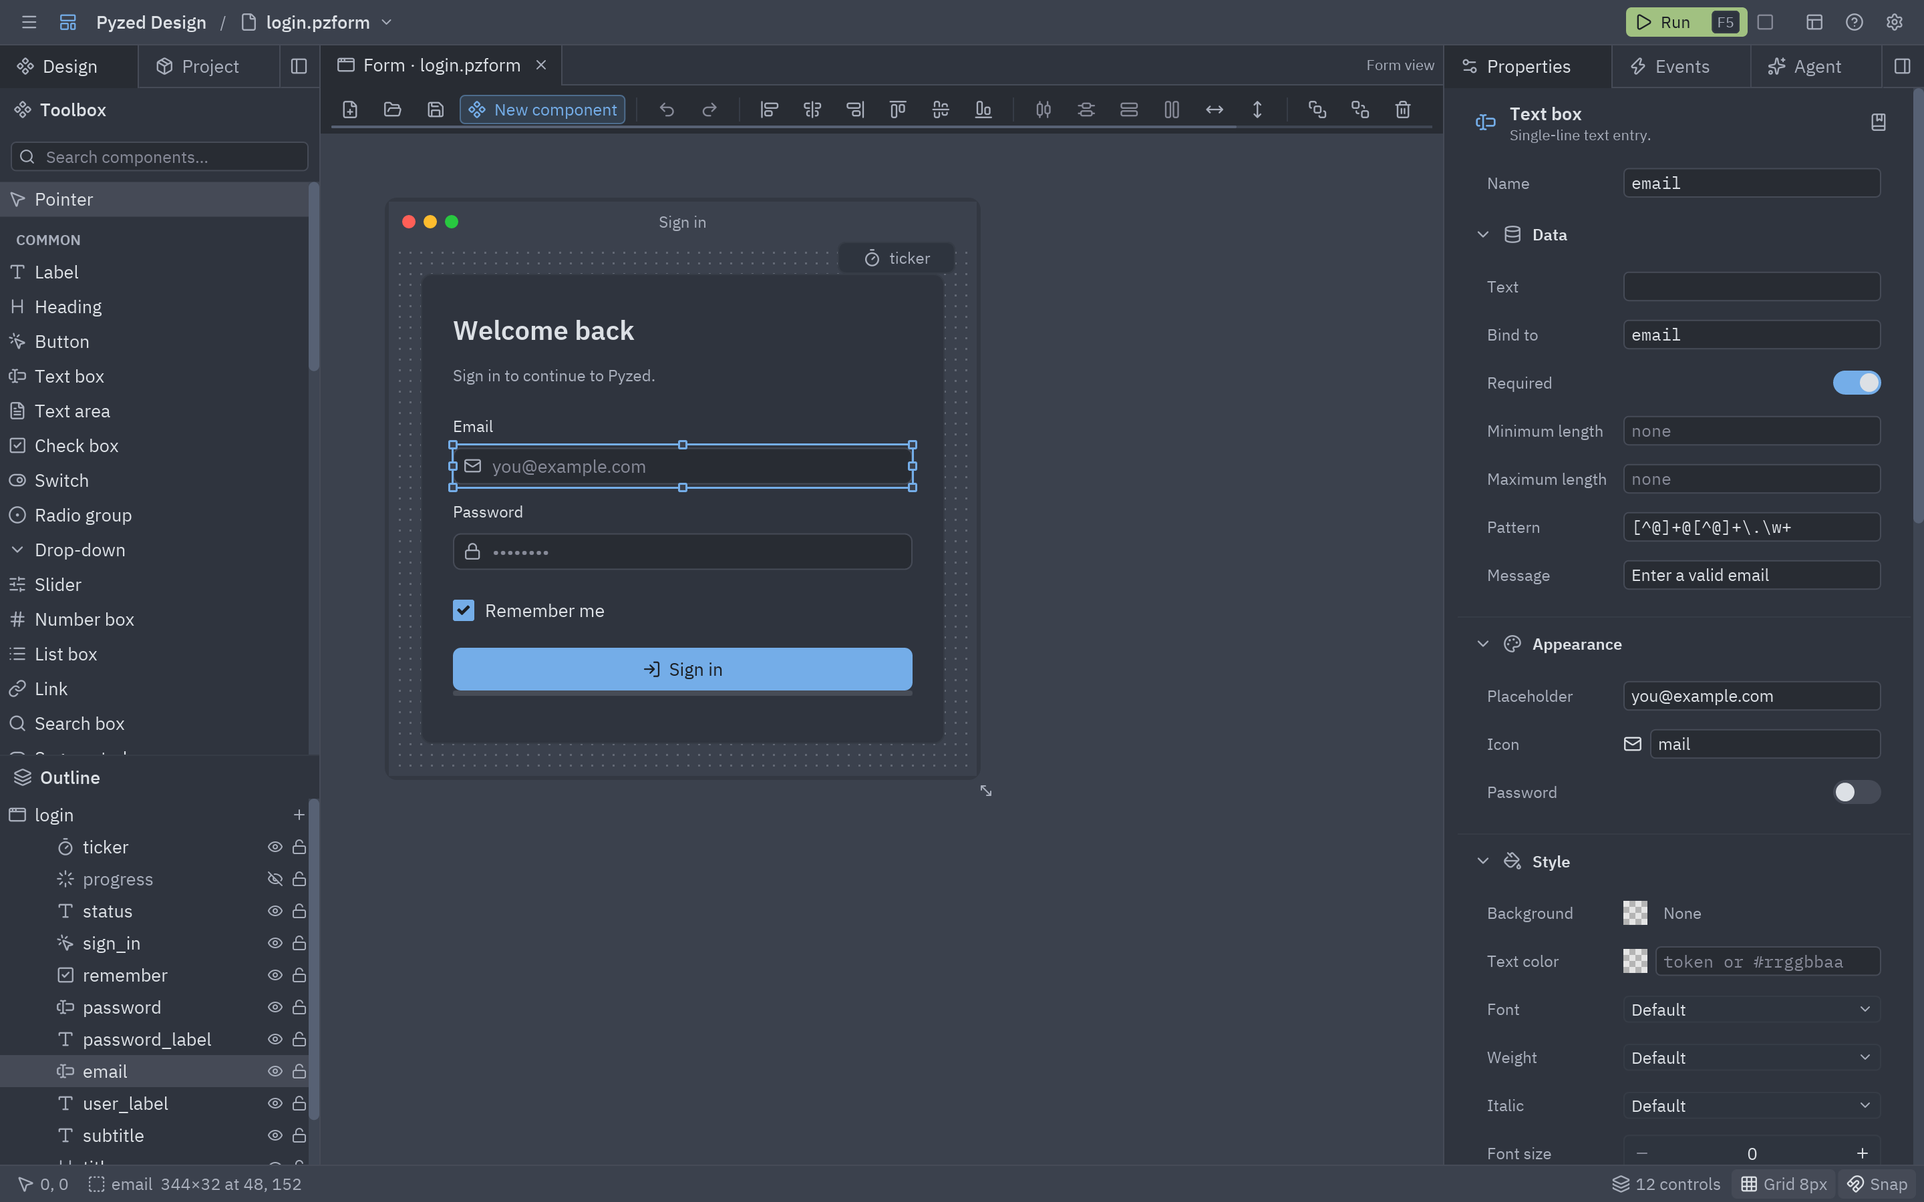
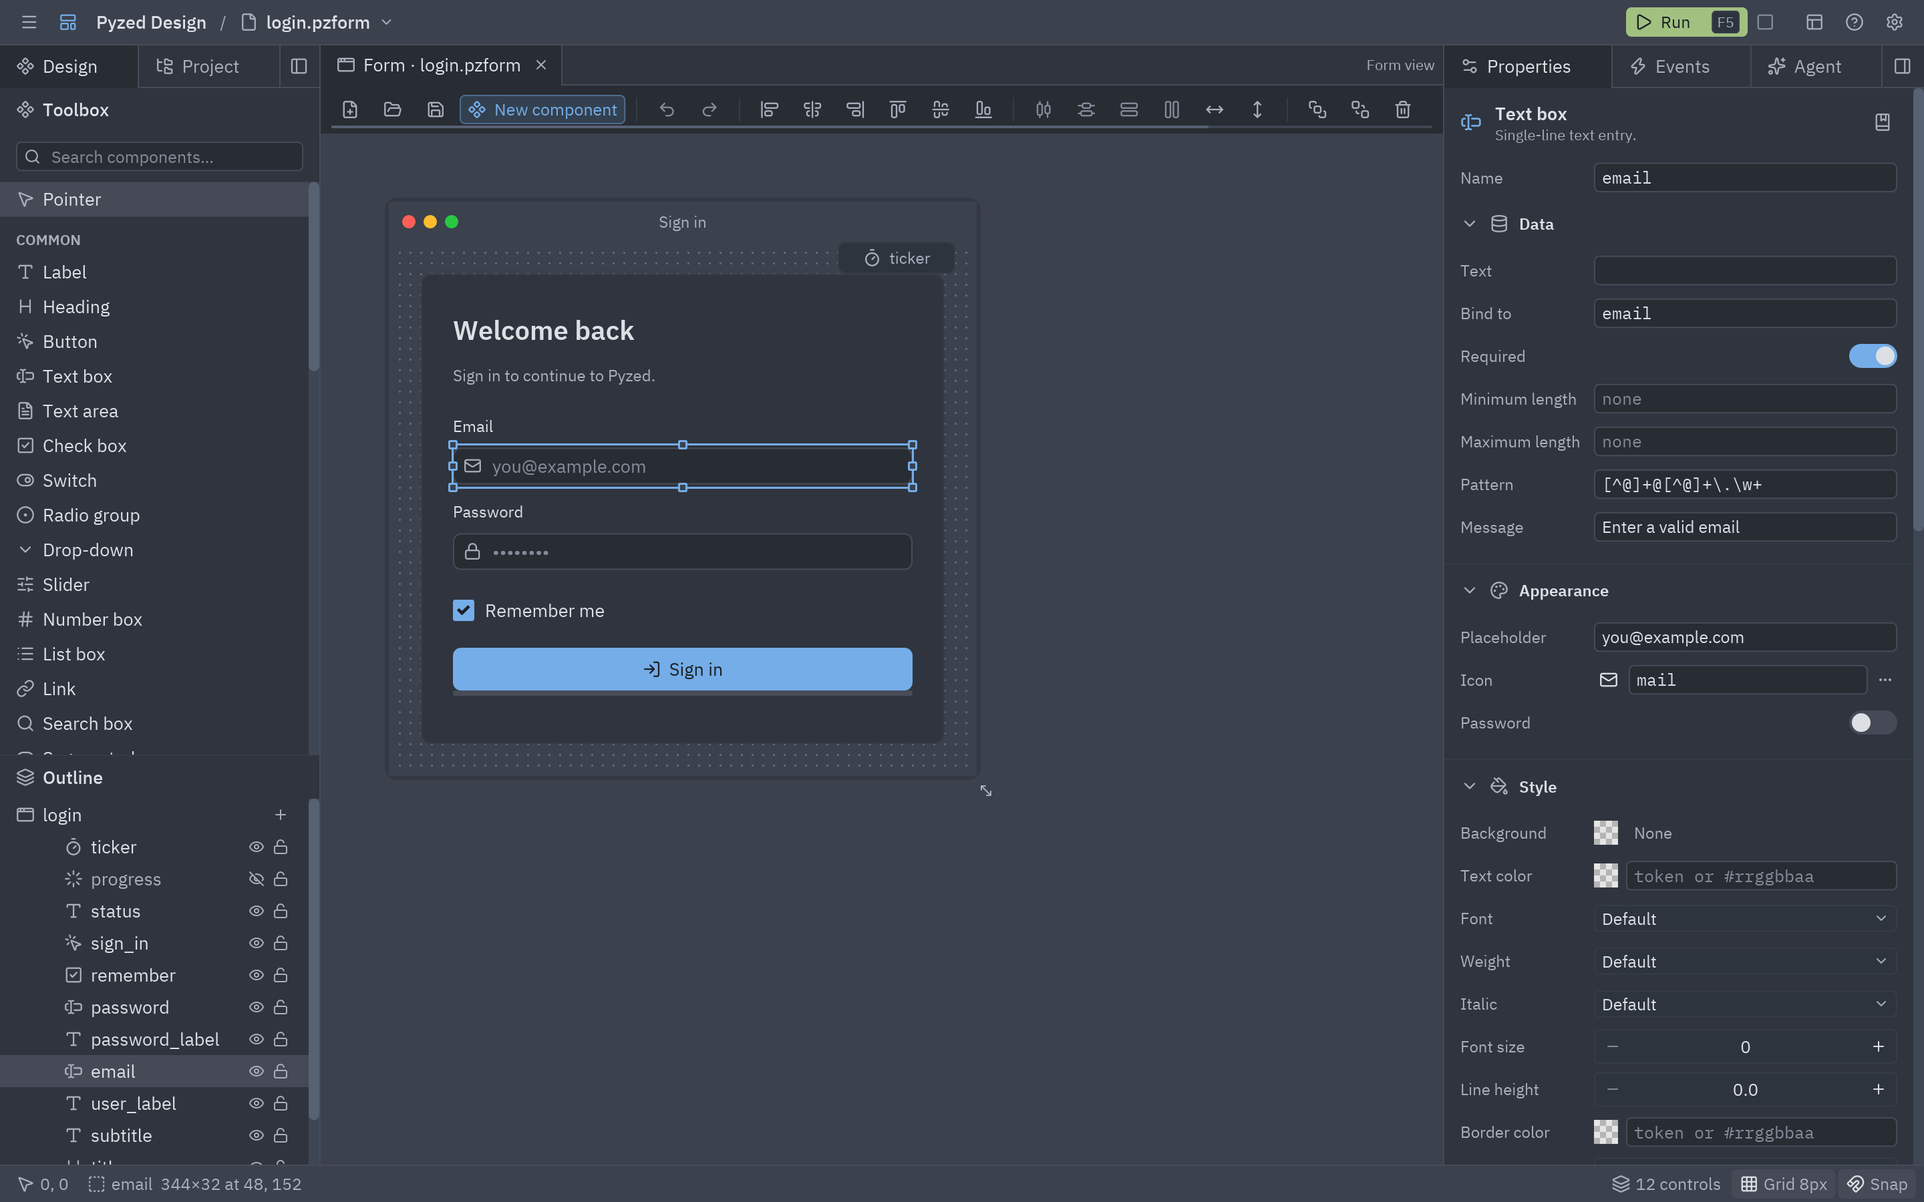
💄 Normalize margins and spacing across Pyzed Design's panels with shared spacing tokens

diff --git a/python/pyzed/designer/panels.py b/python/pyzed/designer/panels.py
@@ -15,14 +15,15 @@ from ..theme import Theme, alpha, themes
 from . import components as _components
 from . import help as _help
 from . import scene_code as _scene_code
+from . import spacing
 from .components import Prop
 from .locale import tr
 
 if TYPE_CHECKING:  # pragma: no cover
     from .app import Designer
 
-LABEL_WIDTH = 92.0
-ROW_HEIGHT = 28.0
+LABEL_WIDTH = spacing.LABEL_WIDTH
+ROW_HEIGHT = spacing.ROW_HEIGHT
 #: Icons of the property groups in the accordion.
 SECTION_ICONS = {"Appearance": "palette", "Data": "database", "Behavior": "mouse-pointer-click",
                  "Layout": "layout-dashboard", "Window": "app-window", "Look": "paintbrush", "Designer": "grid-3x3",
@@ -39,7 +40,13 @@ def section(title: str, t: Theme, end: Any = None) -> Any:
     return _core.container(
         _core.row([ui.label(title.upper(), size="xs", weight="semibold", color="text_muted", theme=t),
                    _core.space(width="fill"), end], align="center"),
-        padding=(10, 12, 4, 12), width="fill")
+        padding=(10, spacing.GUTTER, 4, spacing.GUTTER), width="fill")
+
+
+def scroll_panel(content: Any) -> Any:
+    """A dock panel's scrolling body, with room for the scroll bar so the gutter shows on both sides."""
+    return _core.scrollable(_core.container(content, padding=(0, spacing.SCROLLBAR, 0, 0), width="fill"),
+                            height="fill")
 
 
 class Group:
@@ -58,12 +65,13 @@ def prop_row(title: str, editor: Any, t: Theme, *, tip: Optional[str] = None, ta
         label = ui.tooltip(label, tip, theme=t)
     if tall:
         head = _core.row([label, _core.space(width="fill"), end], align="center", height=ROW_HEIGHT - 4)
-        return _core.container(_core.column([head, editor], spacing=4, width="fill"), padding=(3, 10), width="fill")
+        return _core.container(_core.column([head, editor], spacing=4, width="fill"), padding=(spacing.ROW_PAD, 0),
+                               width="fill")
     return _core.container(
         _core.row([_core.container(label, width=LABEL_WIDTH, clip=True),
                    _core.container(editor, width="fill", height=ROW_HEIGHT, align_y="center")],
-                  spacing=10, align="center"),
-        padding=(3, 10), width="fill")
+                  spacing=spacing.LABEL_GAP, align="center"),
+        padding=(spacing.ROW_PAD, 0), width="fill")
 
 
 _HEX = re.compile(r"#(?:[0-9a-fA-F]{3,4}|[0-9a-fA-F]{6}|[0-9a-fA-F]{8})")
@@ -289,7 +297,7 @@ def rows_editor(value: Any, on_change: Callable[[str], Any], t: Theme) -> Any:
 
 
 def press_row(d: "Designer", key: str, label: str, on_press: Callable[[], Any], t: Theme, *, icon: Optional[str] = None,
-              selected: bool = False, height: float = 26, indent: float = 0, start: Any = None, end: Any = None,
+              selected: bool = False, height: float = spacing.ITEM_HEIGHT, indent: float = 0, start: Any = None, end: Any = None,
               color: Optional[str] = None, on_right_press: Any = None, on_move: Any = None, on_exit: Any = None,
               drop: Optional[str] = None) -> Any:
     """A list row that reacts on press (not on click, like ``ui.list_item``), so it can start a drag.
@@ -306,7 +314,7 @@ def press_row(d: "Designer", key: str, label: str, on_press: Callable[[], Any], 
         _core.container(_core.text(label, size=13.5, color=text_color, wrap=False), width="fill", clip=True),
         end,
     ], spacing=6, align="center")
-    body = _core.container(row, padding=(0, 6), width="fill", height=height, align_y="center",
+    body = _core.container(row, padding=(0, spacing.GUTTER), width="fill", height=height, align_y="center",
                            bg=t.ghost_selected if selected else (t.ghost_hover if hovered else None),
                            border_color=t.accent if drop == "inside" else None,
                            border_width=1.5 if drop == "inside" else 0)
@@ -330,8 +338,7 @@ def toolbox(d: "Designer", t: Theme) -> Any:
     picked or dragged onto the form."""
     query = d.toolbox_query.strip().lower()
     rows: List[Any] = [
-        ui.list_item(tr("Pointer"), d.pick_tool(None), icon="mouse-pointer-2", selected=d.tool is None, height=26,
-                     theme=t),
+        press_row(d, "tool:", tr("Pointer"), d.pick_tool(None), t, icon="mouse-pointer-2", selected=d.tool is None),
     ]
     for category, items in _components.categories().items():
         shown = [c for c in items if not query or query in c.label.lower() or query in tr(c.label).lower()
@@ -347,8 +354,8 @@ def toolbox(d: "Designer", t: Theme) -> Any:
                 tr(spec.description) if spec.description else tr(spec.label), position="right", theme=t))
     return _core.column([
         _core.container(ui.search_input(d.toolbox_query, d.set_toolbox_query, placeholder=tr("Search components…"),
-                                        size="sm", theme=t), padding=8),
-        _core.scrollable(_core.column(rows, width="fill", padding=(0, 0, 8, 0)), height="fill"),
+                                        size="sm", theme=t), padding=(spacing.BLOCK, spacing.GUTTER)),
+        scroll_panel(_core.column(rows, width="fill", padding=(0, 0, spacing.BLOCK, 0))),
     ], width="fill", height="fill")
 
 
@@ -361,10 +368,10 @@ def outline(d: "Designer", t: Theme) -> Any:
 
     doc = d.doc
     form = doc.form
-    rows: List[Any] = [ui.list_item(form.name, d.select_form, icon="app-window", selected=not doc.selection,
-                                    height=24, end=ui.icon_button("plus", lambda: d.open_add_child(None), size="xs",
-                                                                  tooltip="Add a control", theme=t),
-                                    theme=t)]
+    rows: List[Any] = [press_row(d, "outline:", form.name, d.select_form, t, icon="app-window",
+                                 selected=not doc.selection, height=OUTLINE_ROW,
+                                 end=ui.icon_button("plus", lambda: d.open_add_child(None), size="xs",
+                                                    tooltip="Add a control", theme=t))]
 
     def add(parent: Optional[str], depth: int) -> None:
         children = form.children(parent)
@@ -413,7 +420,7 @@ def outline(d: "Designer", t: Theme) -> Any:
                 rows.extend(scene_panel.member_rows(d, c, members, 4 + (depth + 1) * 14 + 20, t))
 
     add(None, 0)
-    return _core.scrollable(_core.column(rows, width="fill"), height="fill")
+    return scroll_panel(_core.column(rows, width="fill"))
 
 
 # -- properties ------------------------------------------------------------------
@@ -450,7 +457,7 @@ def _layout_rows(d: "Designer", c, t: Theme) -> List[Any]:
                                                                 max=24, step=1, width="fill", theme=t), t))
         rows += [prop_row("Width", num("width"), t), prop_row("Height", num("height"), t),
                  _core.container(ui.label(f"Placed by {parent.name}: drag it to reorder.", size="xs",
-                                          color="text_muted", theme=t), padding=(2, 12))]
+                                          color="text_muted", theme=t), padding=(2, 0))]
     else:
         from . import anchor_panel
 
@@ -485,11 +492,12 @@ def control_properties(d: "Designer", t: Theme) -> List[Any]:
                                                  ui.label(tr(spec.description), size="xs", color="text_muted", theme=t)],
                                                 width="fill"),
                                    _help_button(d, c.name, t)],
-                                  spacing=10, align="center"), padding=(10, 12), width="fill"),
+                                  spacing=10, align="center"), padding=spacing.HEADER_PADDING, width="fill"),
         # inset like the rows inside the sections below, so every label and field lines up
         _core.container(prop_row("Name", ui.input(d.name_buffer, d.set_name_buffer, on_submit=d.commit_name, size="sm",
                                                   mono=True, theme=t), t,
-                                 tip="Press Enter to rename (handlers are renamed too)"), padding=(0, 11), width="fill"),
+                                 tip="Press Enter to rename (handlers are renamed too)"), padding=(0, spacing.GUTTER),
+                        width="fill"),
     ]
     groups: dict = {}
     for prop in spec.props:
@@ -589,11 +597,11 @@ def multi_properties(d: "Designer", t: Theme) -> List[Any]:
                                                                       "Bottom edges")]),
     ]
     rows: List[Any] = [_core.container(ui.label(f"{count} controls selected", weight="semibold", theme=t),
-                                       padding=(10, 12))]
+                                       padding=spacing.HEADER_PADDING)]
     for title, items in tools:
         rows.append(Group(title))
         rows.append(_core.container(_core.row([ui.icon_button(icon, lambda e=edge: d.align(e), tooltip=tip, theme=t)
-                                               for icon, edge, tip in items], spacing=2), padding=(0, 12)))
+                                               for icon, edge, tip in items], spacing=2)))
     rows.append(Group("Spacing and size"))
     rows.append(_core.container(_core.row([
         ui.icon_button("align-horizontal-distribute-center", lambda: d.distribute("horizontal"),
@@ -602,7 +610,7 @@ def multi_properties(d: "Designer", t: Theme) -> List[Any]:
                        tooltip="Distribute vertically", theme=t),
         ui.icon_button("stretch-horizontal", lambda: d.same_size("width"), tooltip="Same width", theme=t),
         ui.icon_button("stretch-vertical", lambda: d.same_size("height"), tooltip="Same height", theme=t),
-    ], spacing=2), padding=(0, 12)))
+    ], spacing=2)))
     return rows
 
 
@@ -621,7 +629,7 @@ def form_properties(d: "Designer", t: Theme) -> List[Any]:
     return [
         _core.container(_core.row([_icon("app-window", size=16, color=t.accent),
                                    ui.label("Form", weight="semibold", theme=t)], spacing=10, align="center"),
-                        padding=(10, 12)),
+                        padding=spacing.HEADER_PADDING),
         Group("Window"),
         prop_row("Name", ui.input(form.name, setter("name"), size="sm", mono=True, theme=t), t),
         prop_row("Title", ui.input(form.title, setter("title"), size="sm", theme=t), t),
@@ -674,12 +682,13 @@ def properties(d: "Designer", t: Theme) -> Any:
             groups[-1][1].append(row)
         else:
             head.append(row)
-    sections = [(title, tr(title), _core.column(items, width="fill", spacing=2)) for title, items in groups]
+    sections = [(title, tr(title), _core.column(items, width="fill", spacing=spacing.ROW_GAP))
+                for title, items in groups]
     body = ui.accordion(sections, open={title for title, _ in groups} - d.collapsed_sections,
-                        on_toggle=d.toggle_section, icons=SECTION_ICONS, theme=t)
-    top = _core.container(_core.column(head, width="fill", spacing=2), padding=(0, 11, 6, 11), width="fill")
-    return _core.scrollable(_core.column([top, _core.container(body, padding=(0, 10, 16, 10), width="fill")],
-                                         width="fill"), height="fill")
+                        on_toggle=d.toggle_section, icons=SECTION_ICONS, padding=spacing.GROUP_PADDING, theme=t)
+    top = _core.column(head, width="fill", spacing=spacing.ROW_GAP, padding=(0, 0, spacing.ROW_GAP * 2, 0))
+    return scroll_panel(_core.column([top, _core.container(body, padding=(0, 0, 16, 0), width="fill")],
+                                     width="fill"))
 
 
 # -- events ----------------------------------------------------------------------
@@ -704,7 +713,7 @@ def events(d: "Designer", t: Theme) -> Any:
                                                    width="fill"),
                                       _help_button(d, control.name, t) if control is not None else None],
                                      spacing=10, align="center"),
-                           padding=(10, 12), width="fill")
+                           padding=spacing.HEADER_PADDING, width="fill")
     rows: List[Any] = []
     for event in doc.events_of(target):
         handler = wired.get(event)
@@ -723,17 +732,17 @@ def events(d: "Designer", t: Theme) -> Any:
                                 clip=True),
                 _core.container(name, width="fill", clip=True),
                 actions,
-            ], spacing=10, align="center"), padding=(3, 10), width="fill", height=ROW_HEIGHT + 6, align_y="center",
+            ], spacing=spacing.LABEL_GAP, align="center"), padding=(spacing.ROW_PAD, 0), width="fill",
+                height=ROW_HEIGHT + 2 * spacing.ROW_PAD, align_y="center",
                 radius=t.radius_sm, bg=alpha(t.accent, 0.08) if d.editing and d.editing[0] == handler else None),
             on_double_click=lambda e=event: d.edit_event(target, e)), doc_text, position="left", theme=t))
     rows.append(_core.container(ui.label(tr("Double-click an event, or a control on the form, to write its code."),
-                                         size="xs", color="text_muted", theme=t), padding=(6, 10)))
-    body = ui.accordion([("Events", tr("Events"), _core.column(rows, width="fill", spacing=2))], open={"Events"},
-                        icons={"Events": "zap"}, theme=t)
+                                         size="xs", color="text_muted", theme=t), padding=(6, 0)))
+    body = ui.accordion([("Events", tr("Events"), _core.column(rows, width="fill", spacing=spacing.ROW_GAP))],
+                        open={"Events"}, icons={"Events": "zap"}, padding=spacing.GROUP_PADDING, theme=t)
     # the same insets as the property grid, so both docks line up
-    top = _core.container(head, padding=(0, 11, 6, 11), width="fill")
-    return _core.scrollable(_core.column([top, _core.container(body, padding=(0, 10, 16, 10), width="fill")],
-                                         width="fill"), height="fill")
+    return scroll_panel(_core.column([head, _core.container(body, padding=(0, 0, 16, 0), width="fill")],
+                                     width="fill"))
 
 
 # -- style -----------------------------------------------------------------------
@@ -919,5 +928,5 @@ def style_rows(d: "Designer", name: Optional[str], style: dict, t: Theme, *, fie
         rows.append(prop_row(field.title, editor, t, tip=field.tip))
     if style:
         rows.append(_core.container(ui.button(tr("Reset style"), lambda: d.clear_style(name), icon="rotate-ccw",
-                                              variant="ghost", size="sm", theme=t), padding=(4, 10)))
+                                              variant="ghost", size="sm", theme=t), padding=(4, 0)))
     return rows

diff --git a/python/pyzed/designer/motion_panel.py b/python/pyzed/designer/motion_panel.py
@@ -106,7 +106,7 @@ def animation_rows(d: "Designer", c: Control, t: Theme) -> List[Any]:
     if not c.animations:
         rows.append(_core.container(ui.label(tr("No animations yet: add one to play it when the control appears, "
                                                 "on hover, on click..."), size="xs", color="text_muted", theme=t),
-                                    padding=(4, 10), width="fill"))
+                                    padding=(4, 0), width="fill"))
     previewing = name in d.motion_preview
     buttons = [ui.button(tr("Add animation"), lambda: d.add_animation(name), icon="plus", variant="ghost", size="sm",
                          theme=t)]
@@ -115,7 +115,7 @@ def animation_rows(d: "Designer", c: Control, t: Theme) -> List[Any]:
         buttons.append(ui.button(tr("Stop") if previewing else tr("Preview"),
                                  (lambda: d.stop_preview(name)) if previewing else (lambda: d.preview_animations(name)),
                                  icon="square" if previewing else "play", variant="ghost", size="sm", theme=t))
-    rows.append(_core.container(_core.row(buttons, spacing=6, align="center"), padding=(4, 10), width="fill"))
+    rows.append(_core.container(_core.row(buttons, spacing=6, align="center"), padding=(4, 0), width="fill"))
     return rows
 
 

diff --git a/python/pyzed/designer/spacing.py b/python/pyzed/designer/spacing.py
@@ -1,0 +1,27 @@
+"""The spacing every panel of Pyzed Design shares, so docks, lists and the property grid line up.
+
+Each panel's content sits ``GUTTER`` pixels from both of its sides: section headings, list rows, property
+labels and the right end of the fields. Rows of a list are ``ROW_GAP`` apart, and blocks inside a panel
+(a header, a group of properties) are ``BLOCK`` apart.
+"""
+
+#: Margin between a panel's sides and its content, left and right alike.
+GUTTER = 12.0
+#: Space between blocks inside a panel (a header and what follows, two groups).
+BLOCK = 8.0
+#: Space between the rows of a list or a property group.
+ROW_GAP = 2.0
+#: Height of a property's field, and padding above and below it.
+ROW_HEIGHT = 26.0
+ROW_PAD = 2.0
+#: Width of the property names column, and space between it and the fields.
+LABEL_WIDTH = 92.0
+LABEL_GAP = 8.0
+#: Width of a scroll bar: scrolling panels keep it clear of their content, so the gutter shows on both sides.
+SCROLLBAR = 8.0
+#: Height of a row of a list (the toolbox, the outline).
+ITEM_HEIGHT = 26.0
+#: Padding of a group's content in the property grid (top, sides, bottom).
+GROUP_PADDING = (4.0, GUTTER, BLOCK, GUTTER)
+#: Padding of a panel's heading block (a control's name and description).
+HEADER_PADDING = (10.0, GUTTER, BLOCK, GUTTER)

diff --git a/python/pyzed/designer/scene_panel.py b/python/pyzed/designer/scene_panel.py
@@ -23,7 +23,7 @@ from ..app import Window
 from ..icons import icon as _icon
 from ..theme import Theme
 from . import components as _components
-from . import scene_code
+from . import scene_code, spacing
 from . import type_editor as _type_editor
 from .scene import SceneDocument
 from .scene_runtime import SceneComponent, scenes
@@ -95,7 +95,7 @@ def _number(value: float, on_change: Callable[[Any], Any], t: Theme, **kwargs: A
 
 
 def _accordion(d: "Designer", sections: List[Any], t: Theme) -> Any:
-    return ui.accordion(sections, open=_open(d), on_toggle=_toggle(d), theme=t)
+    return ui.accordion(sections, open=_open(d), on_toggle=_toggle(d), padding=spacing.GROUP_PADDING, theme=t)
 
 
 # -- the Component panel -------------------------------------------------------------
@@ -136,7 +136,7 @@ def component_rows(d: "Designer", t: Theme) -> List[Any]:
         ui.label(scene.name, weight="semibold", theme=t),
         _core.space(width="fill"),
         ui.badge("Component", tint="accent", theme=t),
-    ], spacing=10, align="center"), padding=(12, 12), width="fill")
+    ], spacing=10, align="center"), padding=spacing.HEADER_PADDING, width="fill")
     warning = None
     if not doc.code_ok:
         warning = _core.container(ui.callout("The class does not parse",

diff --git a/python/pyzed/designer/anchor_panel.py b/python/pyzed/designer/anchor_panel.py
@@ -6,6 +6,7 @@ from __future__ import annotations
 from typing import TYPE_CHECKING, Any, Callable, List
 
 from .. import _core, anchors, draw, ui
+from . import spacing
 from ..theme import Theme
 from .locale import tr
 
@@ -108,7 +109,7 @@ def position_rows(d: "Designer", c: "Control", t: Theme, prop_row: Callable[...,
             preset_grid(preset, lambda name: d.set_anchor(c.name, name), t),
             _core.row([ui.switch(d.anchor_move, lambda on: setattr(d, "anchor_move", on), theme=t),
                        ui.label(tr("Also move it there"), size="sm", theme=t)], spacing=8, align="center"),
-        ], spacing=8), padding=(4, 12, 8, 120)))
+        ], spacing=8), padding=(4, 0, 8, spacing.LABEL_WIDTH + spacing.LABEL_GAP)))
 
     def num(field: str) -> Any:
         return _number(round(getattr(c, field)), lambda val, f=field: d.set_field(c.name, f, val), t, step=1)

diff --git a/python/pyzed/ui/workspace.py b/python/pyzed/ui/workspace.py
@@ -142,7 +142,7 @@ def panel_header(
             spacing=6,
             align="center",
         ),
-        padding=(0, 6, 0, 10),
+        padding=(0, 6, 0, 12),
         height=height,
         width="fill",
         align_y="center",
